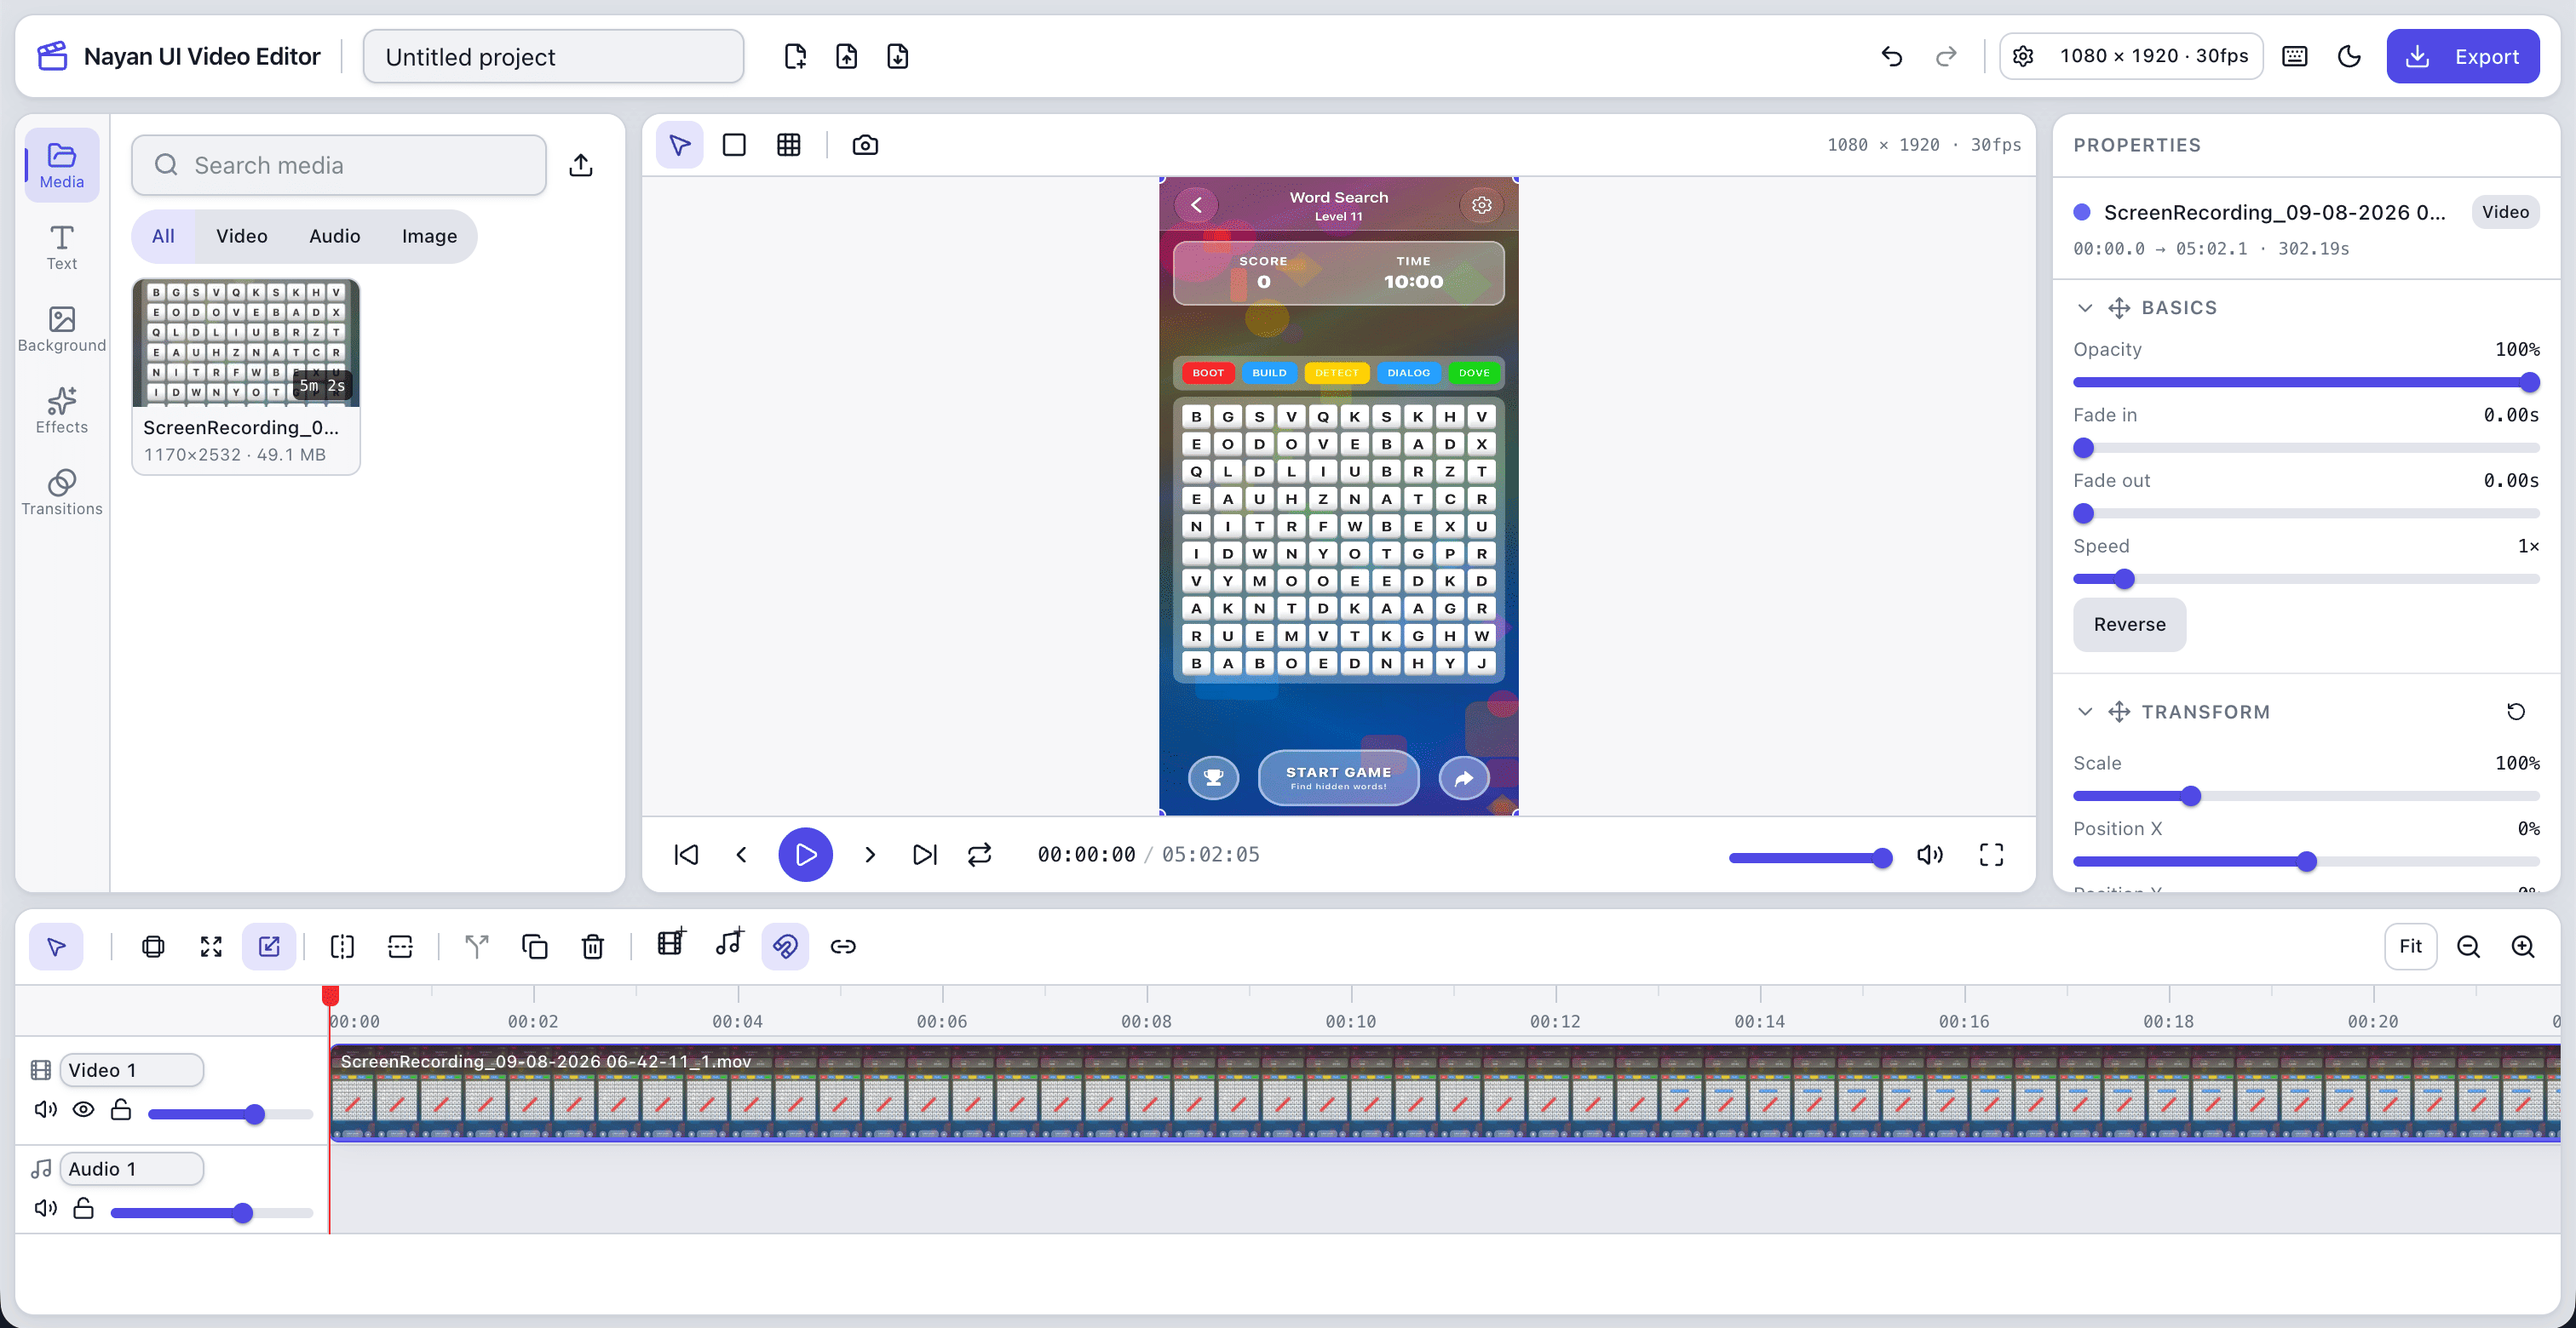
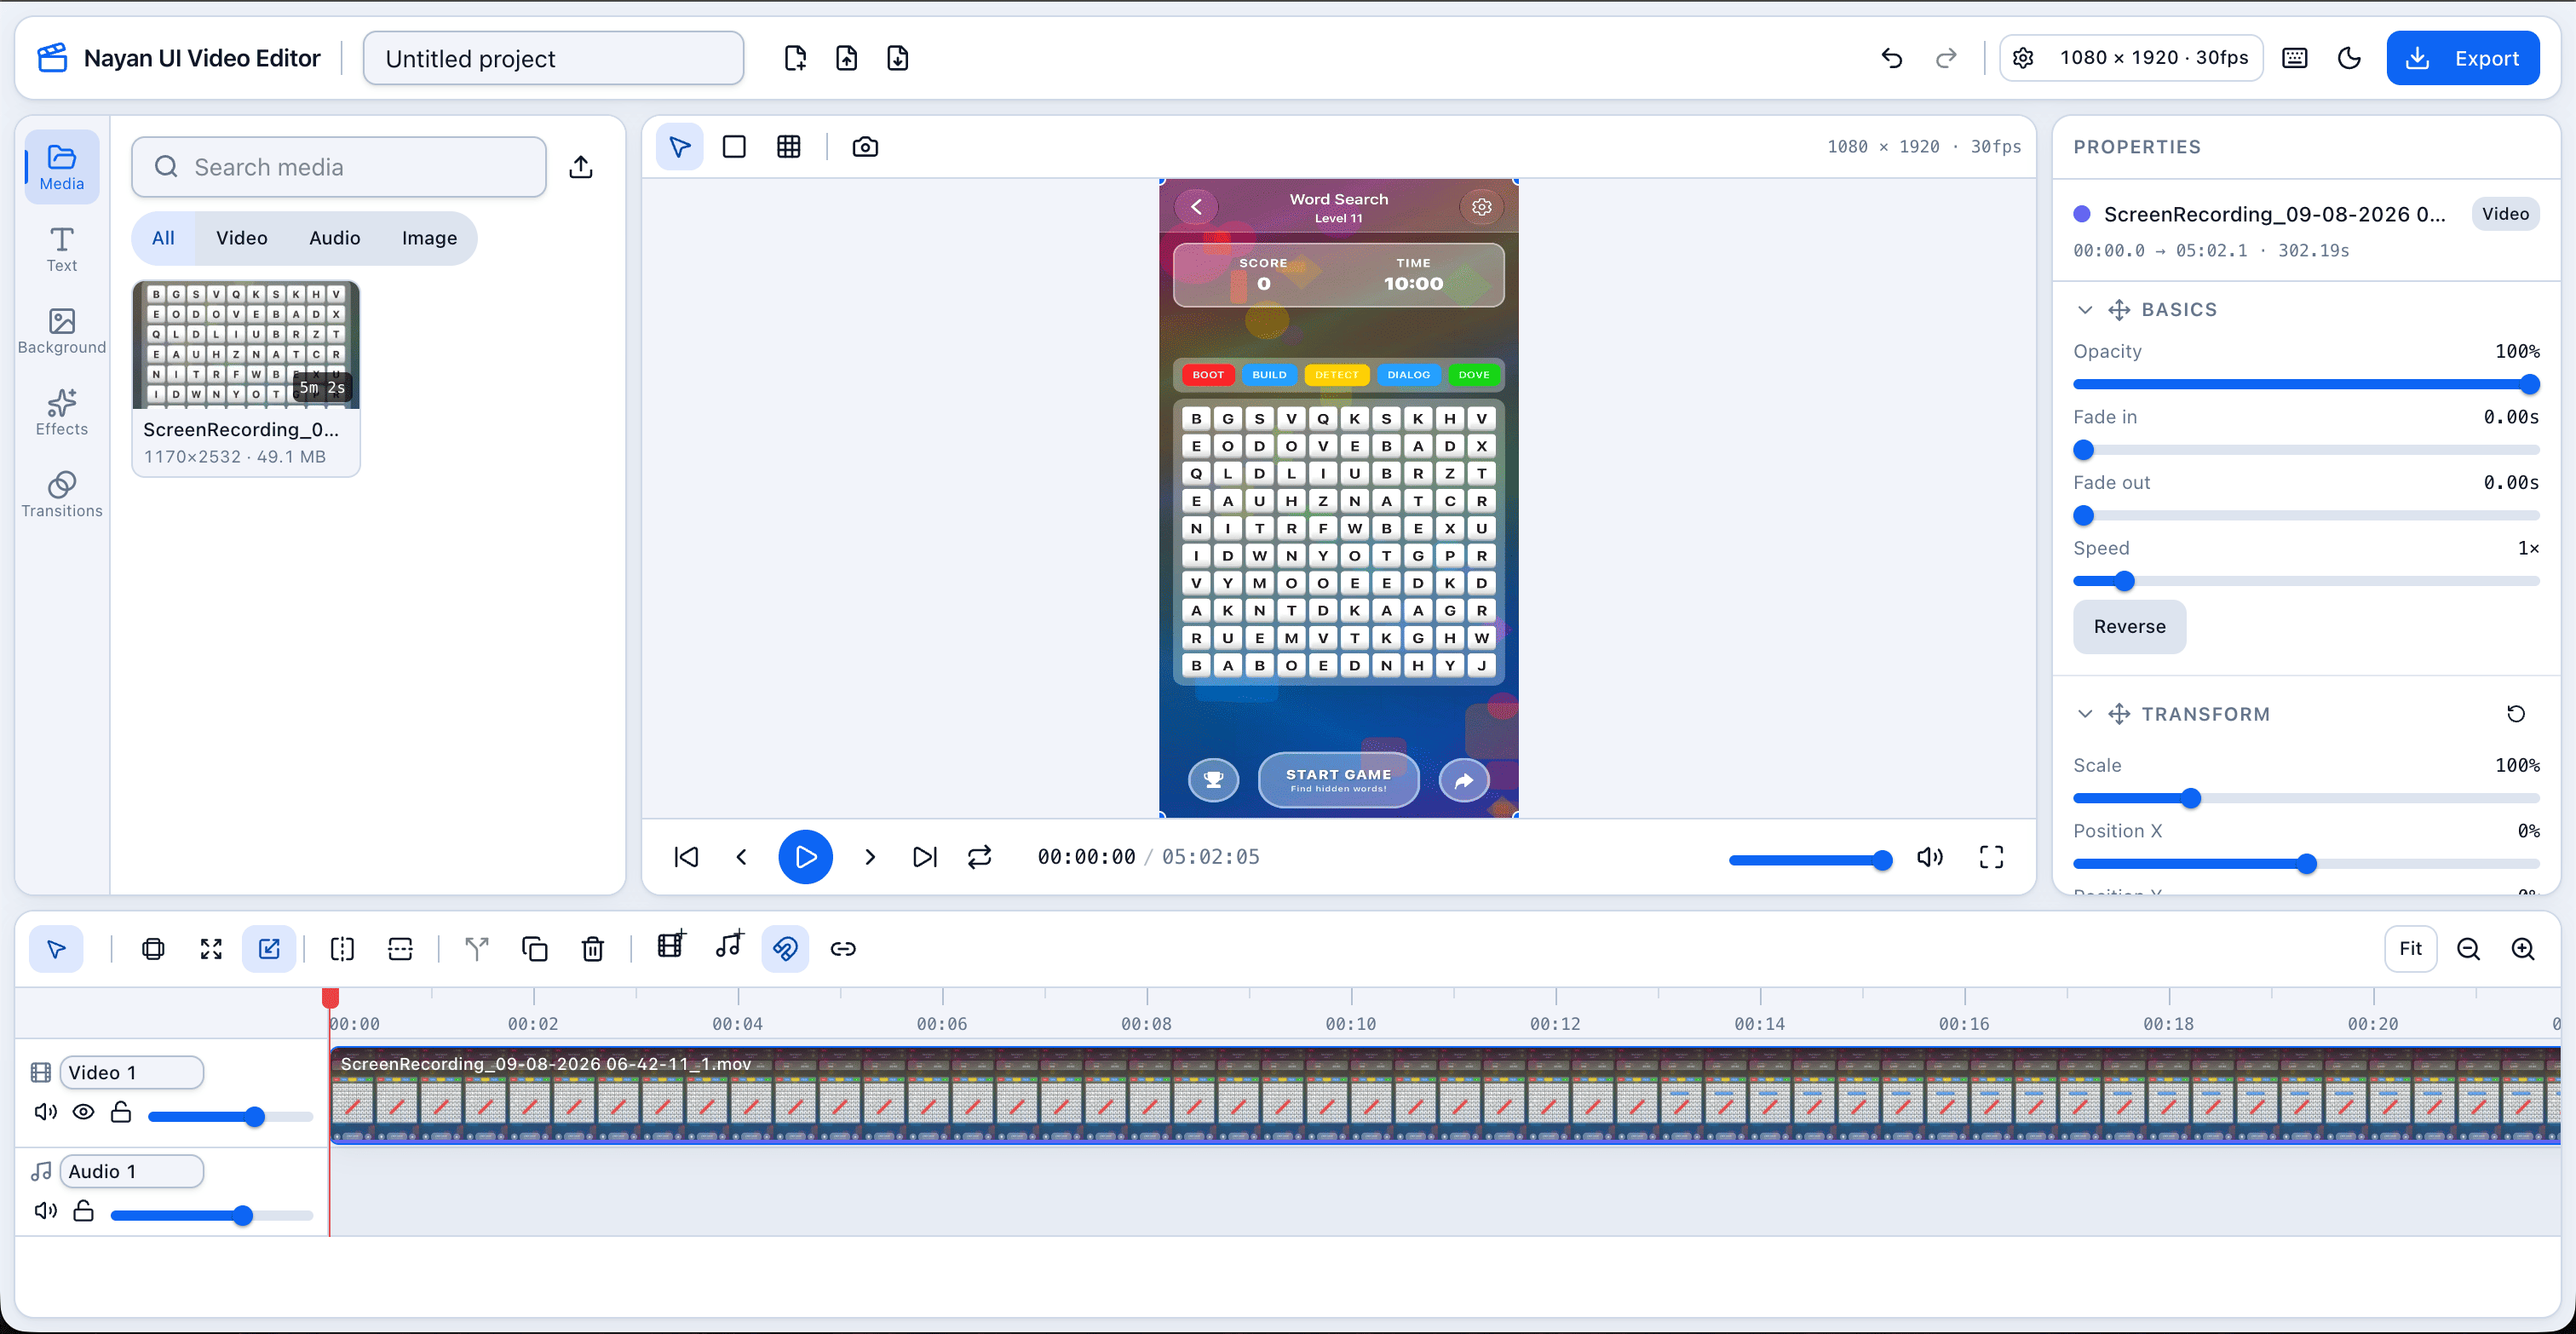
Improve Website

diff --git a/packages/video-editor/src/index.css b/packages/video-editor/src/index.css
@@ -109,8 +109,8 @@
   --muted: hsl(215 20% 65%);
   --default: hsl(217 33% 26%);
   --default-foreground: hsl(210 40% 98%);
-  --accent: hsl(262 83% 72%);
-  --accent-foreground: hsl(0 0% 100%);
+  --accent: hsl(217 91% 67%);
+  --accent-foreground: hsl(222 47% 11%);
   /*
    * Inputs recede rather than rise, so they read as wells in the panel — the
    * 11% step of the scale above. The fill keeps it; the edge is what was
@@ -132,7 +132,7 @@
   /* Lifted so an island's edge still reads against a near-black gutter. */
   --border: hsl(217 33% 28%);
   --separator: hsl(217 25% 38%);
-  --focus: hsl(262 83% 72%);
+  --focus: hsl(217 91% 67%);
   --link: hsl(210 40% 98%);
   --segment: hsl(217 28% 34%);
   --segment-foreground: hsl(210 40% 98%);
